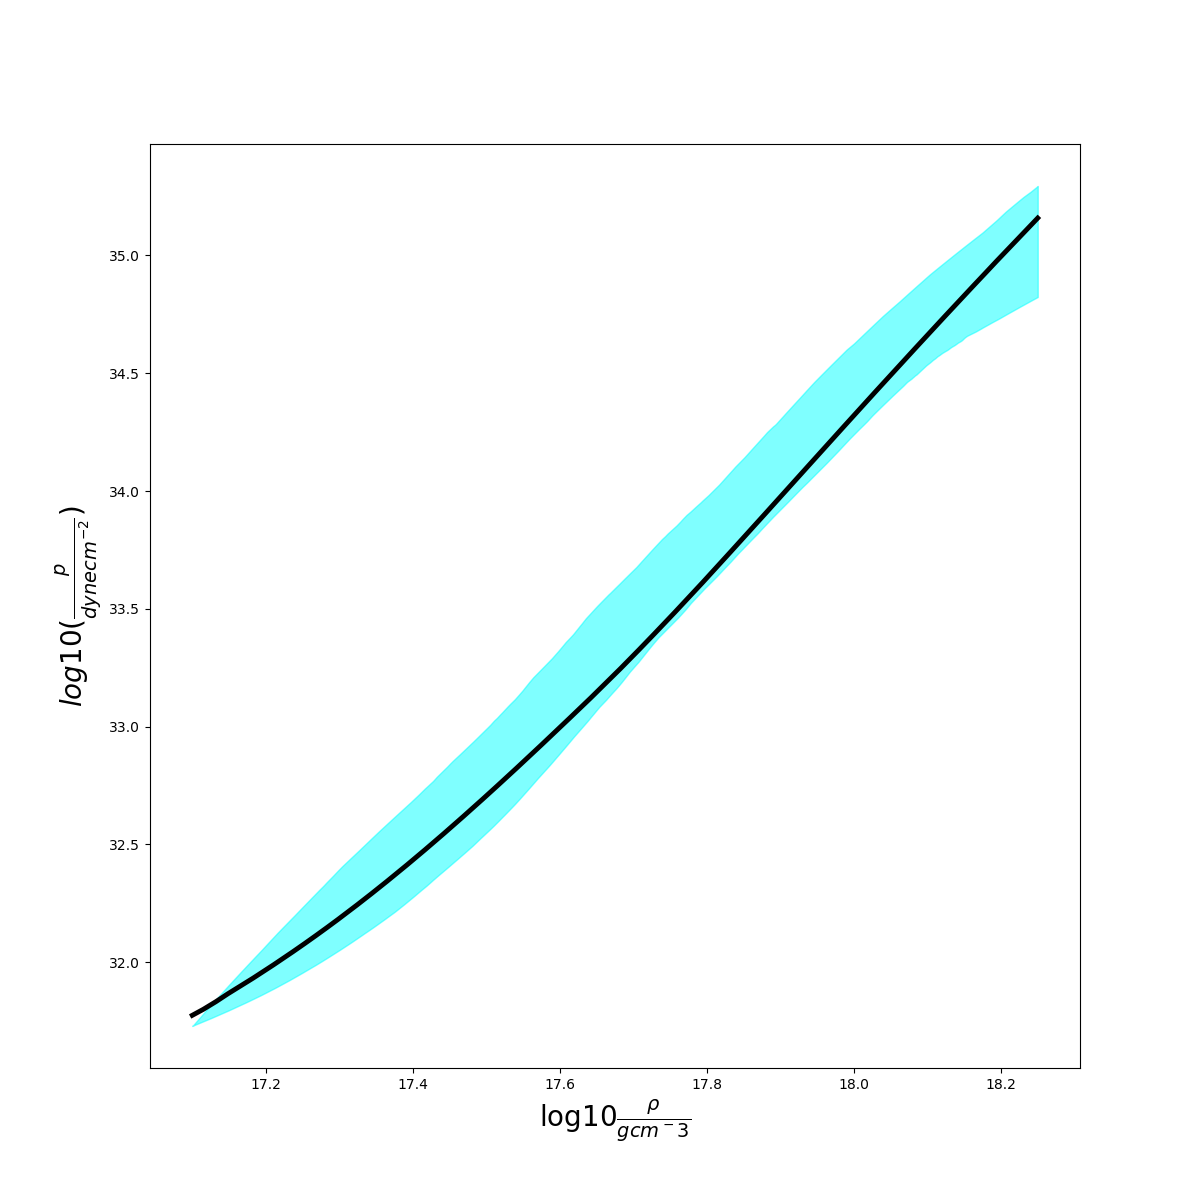
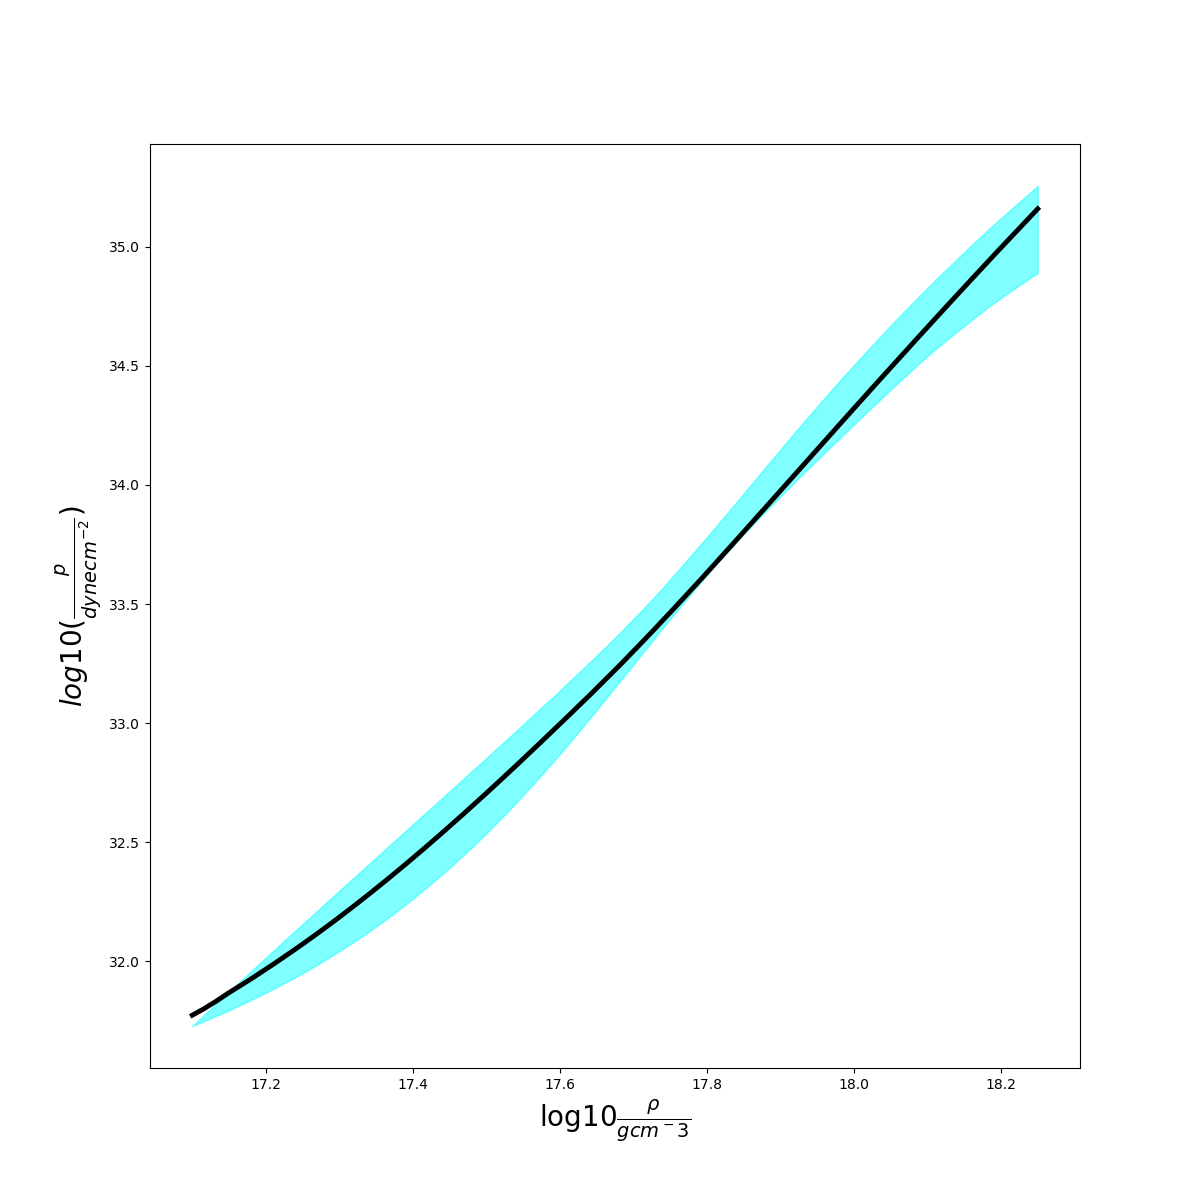
Testing the 3D KDE on NSBH event GW230529.

diff --git a/year3/lastStretch/simulConstraint.py b/year3/lastStretch/simulConstraint.py
@@ -32,11 +32,11 @@ def calcConstraint1():
 
         fnames=filesToCompare[ii]
         #Name of/ Path to file in which EoS parameter posterior samples will be saved:
-        outname='data/constraints/{}_16simulationsInference1000samp'.format(Labels[ii])
+        outname='data/constraints/{}_16simulationsInference'.format(Labels[ii])
 
         #Initialize Sampler Object:
         """For SPectral"""
-        sampler=mcmc_sampler(fnames, {'gamma1':{'params':{"min":0.2,"max":2.00}},'gamma2':{'params':{"min":-1.6,"max":1.7}},'gamma3':{'params':{"min":-0.6,"max":0.6}},'gamma4':{'params':{"min":-0.02,"max":0.02}}}, outname, nwalkers=100, Nsamples=1000, ndim=4, spectral=True,npool=100,kdedim=dims[ii])
+        sampler=mcmc_sampler(fnames, {'gamma1':{'params':{"min":0.2,"max":2.00}},'gamma2':{'params':{"min":-1.6,"max":1.7}},'gamma3':{'params':{"min":-0.6,"max":0.6}},'gamma4':{'params':{"min":-0.02,"max":0.02}}}, outname, nwalkers=100, Nsamples=10000, ndim=4, spectral=True,npool=100,kdedim=dims[ii])
 
         #Run, Save , Plot
         sampler.initialize_walkers()
@@ -45,8 +45,8 @@ def calcConstraint1():
 
         fig=sampler.plot(cornerplot={'plot':True,'true vals':None},p_vs_rho={'plot':True,'true_eos':'AP4'})
         # We follow the driver's logic that saves a constraint and corner plot cause... why not
-        fig['corner'].savefig('plots/corners/{}_16simulations1000samp_corner.png'.format(Labels[ii]))
-        fig['p_vs_rho'][0].savefig('plots/constraints/{}_16simulations1000samp_constraint.png'.format(Labels[ii]))
+        fig['corner'].savefig('plots/corners/{}_16simulations_corner.png'.format(Labels[ii]))
+        fig['p_vs_rho'][0].savefig('plots/constraints/{}_16simulations_constraint.png'.format(Labels[ii]))
 
 
 def calcConstraint2(burn_in_frac=0.5,thinning=None):
@@ -55,7 +55,7 @@ def calcConstraint2(burn_in_frac=0.5,thinning=None):
     Labels = ["2D-KDE-TaylorF2", "3D-KDE-TaylorF2", "3D-KDE-PhenomNRT"]
     for label in Labels:
         # Load the samples
-        filename='data/constraints/{}_16simulationsInference1000samp.h5'.format(label)
+        filename='data/constraints/{}_16simulationsInference.h5'.format(label)
         with h5py.File(filename,'r') as f:
             Samples = np.array(f['chains'])
             logp = np.array(f['logp'])
@@ -79,7 +79,7 @@ def calcConstraint2(burn_in_frac=0.5,thinning=None):
 
         samples = np.array(samples)
         # Save gamma sample data
-        np.savetxt("data/constraints/{}_16simulationsInference1000samp_gammas.txt".format(label),samples)
+        np.savetxt("data/constraints/{}_16simulationsInference_gammas.txt".format(label),samples)
 
         # Turn into confidence interval data
         logp=[]
@@ -98,7 +98,7 @@ def calcConstraint2(burn_in_frac=0.5,thinning=None):
         logp_med=np.array([np.quantile(logp[:,i],0.5) for i in range(len(rho))])
 
         # Save confidence interval data
-        np.savetxt("data/constraints/{}_16simulationsInference1000samp.txt".format(label),np.array([rho,logp_CIlow,logp_med,logp_CIup]).T)
+        np.savetxt("data/constraints/{}_16simulationsInference.txt".format(label),np.array([rho,logp_CIlow,logp_med,logp_CIup]).T)
 
 
 def plotConstraint():
@@ -118,7 +118,7 @@ def plotConstraint():
     for label, Label, Color in zip(labels,Labels,Colors): # increment over each plot file
 
         # Load the samples
-        filename='data/constraints/{}_16simulationsInference1000samp.txt'.format(label)
+        filename='data/constraints/{}_16simulationsInference.txt'.format(label)
         rho, lower_bound, median, upper_bound = np.loadtxt(filename).T
 
         #plt.plot(lower_bound, rho, label=Label, color=Color)
@@ -133,5 +133,5 @@ def plotConstraint():
     plt.xlabel(r'$\log10{\frac{\rho}{g cm^-3}}$',fontsize=20)
     plt.ylabel(r'$log10(\frac{p}{dyne cm^{-2}})$',fontsize=20)
     plt.legend()
-    plt.savefig("plots/constraints/16simulations1000samp_constraint.png", bbox_inches='tight')
+    plt.savefig("plots/constraints/16simulations_constraint.png", bbox_inches='tight')
 

diff --git a/year3/lastStretch/eventBFs.py b/year3/lastStretch/eventBFs.py
@@ -17,8 +17,10 @@ def singleEventBFs(Trials=1000):
 
     #uLTs_File = "/home/michael/projects/eos/GWXtreme_Tasks/year2/bilby_runs/simulations/outdir/real/uniformP_LTs/GW170817/simplified_result.json" 
     #uLs_File = "/home/michael/projects/eos/GWXtreme_Tasks/year3/GW170817_prior_L1L2/CIT_attempt_successful/outdir/simplified_result.json"
-    uLs_phenom_File = "/home/michael/projects/eos/GWXtreme_Tasks/year3/lastStretch/files/GW170817phenom.json"
-    output = "data/BFs/GW170817_2D_3D_BFs.json"
+    #uLs_phenom_File = "/home/michael/projects/eos/GWXtreme_Tasks/year3/lastStretch/files/GW170817phenom.json"
+    uLs_phenom_File = "/home/michael/projects/eos/GWXtreme_Tasks/year3/lastStretch/files/gw230529_phenom_lowSpin.json"
+    #output = "data/BFs/GW170817_2D_3D_BFs.json"
+    output = "data/BFs/GW230529_2D_3D_BFs.json"
 
     #modsel_uLTs = ems.Model_selection(uLTs_File,Ns=4000,kdedim=2)
     #modsel_uLs = ems.Model_selection(uLs_File,Ns=4000,kdedim=3)
@@ -43,15 +45,15 @@ def singleEventBFs(Trials=1000):
     for method in methods:
         print(method)
         BFs = []
-        trials = []
+        trias = []
         for eos in eosList:
             print(eos)
-            bf, bf_trials = method.computeEvidenceRatio(EoS1=eos,EoS2="SLY",trials=Trials)
-            #bf = method.computeEvidenceRatio(EoS1=eos,EoS2="SLY",trials=0)
+            #bf, bf_trials = method.computeEvidenceRatio(EoS1=eos,EoS2="SLY",trials=Trials)
+            bf = method.computeEvidenceRatio(EoS1=eos,EoS2="SLY",trials=0)
             BFs.append(bf)
-            trials.append(bf_trials.tolist())
+            #trials.append(bf_trials.tolist())
         methods_BFs.append(BFs)
-        methods_trials.append(trials)
+        #methods_trials.append(trials)
 
     methods_BFs.append(nest_BFs)
     methods_trials.append(nest_stds)
@@ -80,13 +82,16 @@ def singleEventBFs(Trials=1000):
 
 def singleEventPlots():
 
-    File = "data/BFs/GW170817_2D_3D_BFs.json"
+    #File = "data/BFs/GW170817_2D_3D_BFs.json"
+    File = "data/BFs/GW230529_2D_3D_BFs.json"
     with open(File,"r") as f:
         data = json.load(f)
 
-    labels = ["2D KDE TaylorF2", "3D KDE TaylorF2", "3D KDE PhenomNRT", "LALInference_Nest"]
+    #labels = ["2D KDE TaylorF2", "3D KDE TaylorF2", "3D KDE PhenomNRT", "LALInference_Nest"]
+    labels = ["3D KDE PhenomNRT"]
     eosList = ["BHF_BBB2","KDE0V","KDE0V1","SKOP","H4","HQC18","SLY2","SLY230A","SKMP","RS","SK255","SLY9","APR4_EPP","SKI2","SKI4","SKI6","SK272","SKI3","SKI5","MPA1","MS1_PP","MS1B_PP"]
-    colors = ["#d7191c","#fdae61","#abdda4","#2b83ba"]
+    #colors = ["#d7191c","#fdae61","#abdda4","#2b83ba"]
+    colors = ["#d7191c"]
 #    colors = ["#1f77b4", "#ffd7b6", "#bfe2bf"]
     x_axis = np.arange(len(eosList))
     spacing = [-.30,-.10,.10,.30]
@@ -120,5 +125,6 @@ def singleEventPlots():
     #plt.title("EoS Bayes Factors w.r.t. SLY")
     plt.ylabel("Bayes-factor w.r.t SLY")
     plt.legend()
-    plt.savefig("plots/BFs/GW170817_2D_3D_BFs.png",bbox_inches="tight")
+    #plt.savefig("plots/BFs/GW170817_2D_3D_BFs.png",bbox_inches="tight")
+    plt.savefig("plots/BFs/GW230529_2D_3D_BFs.png",bbox_inches="tight")
 
